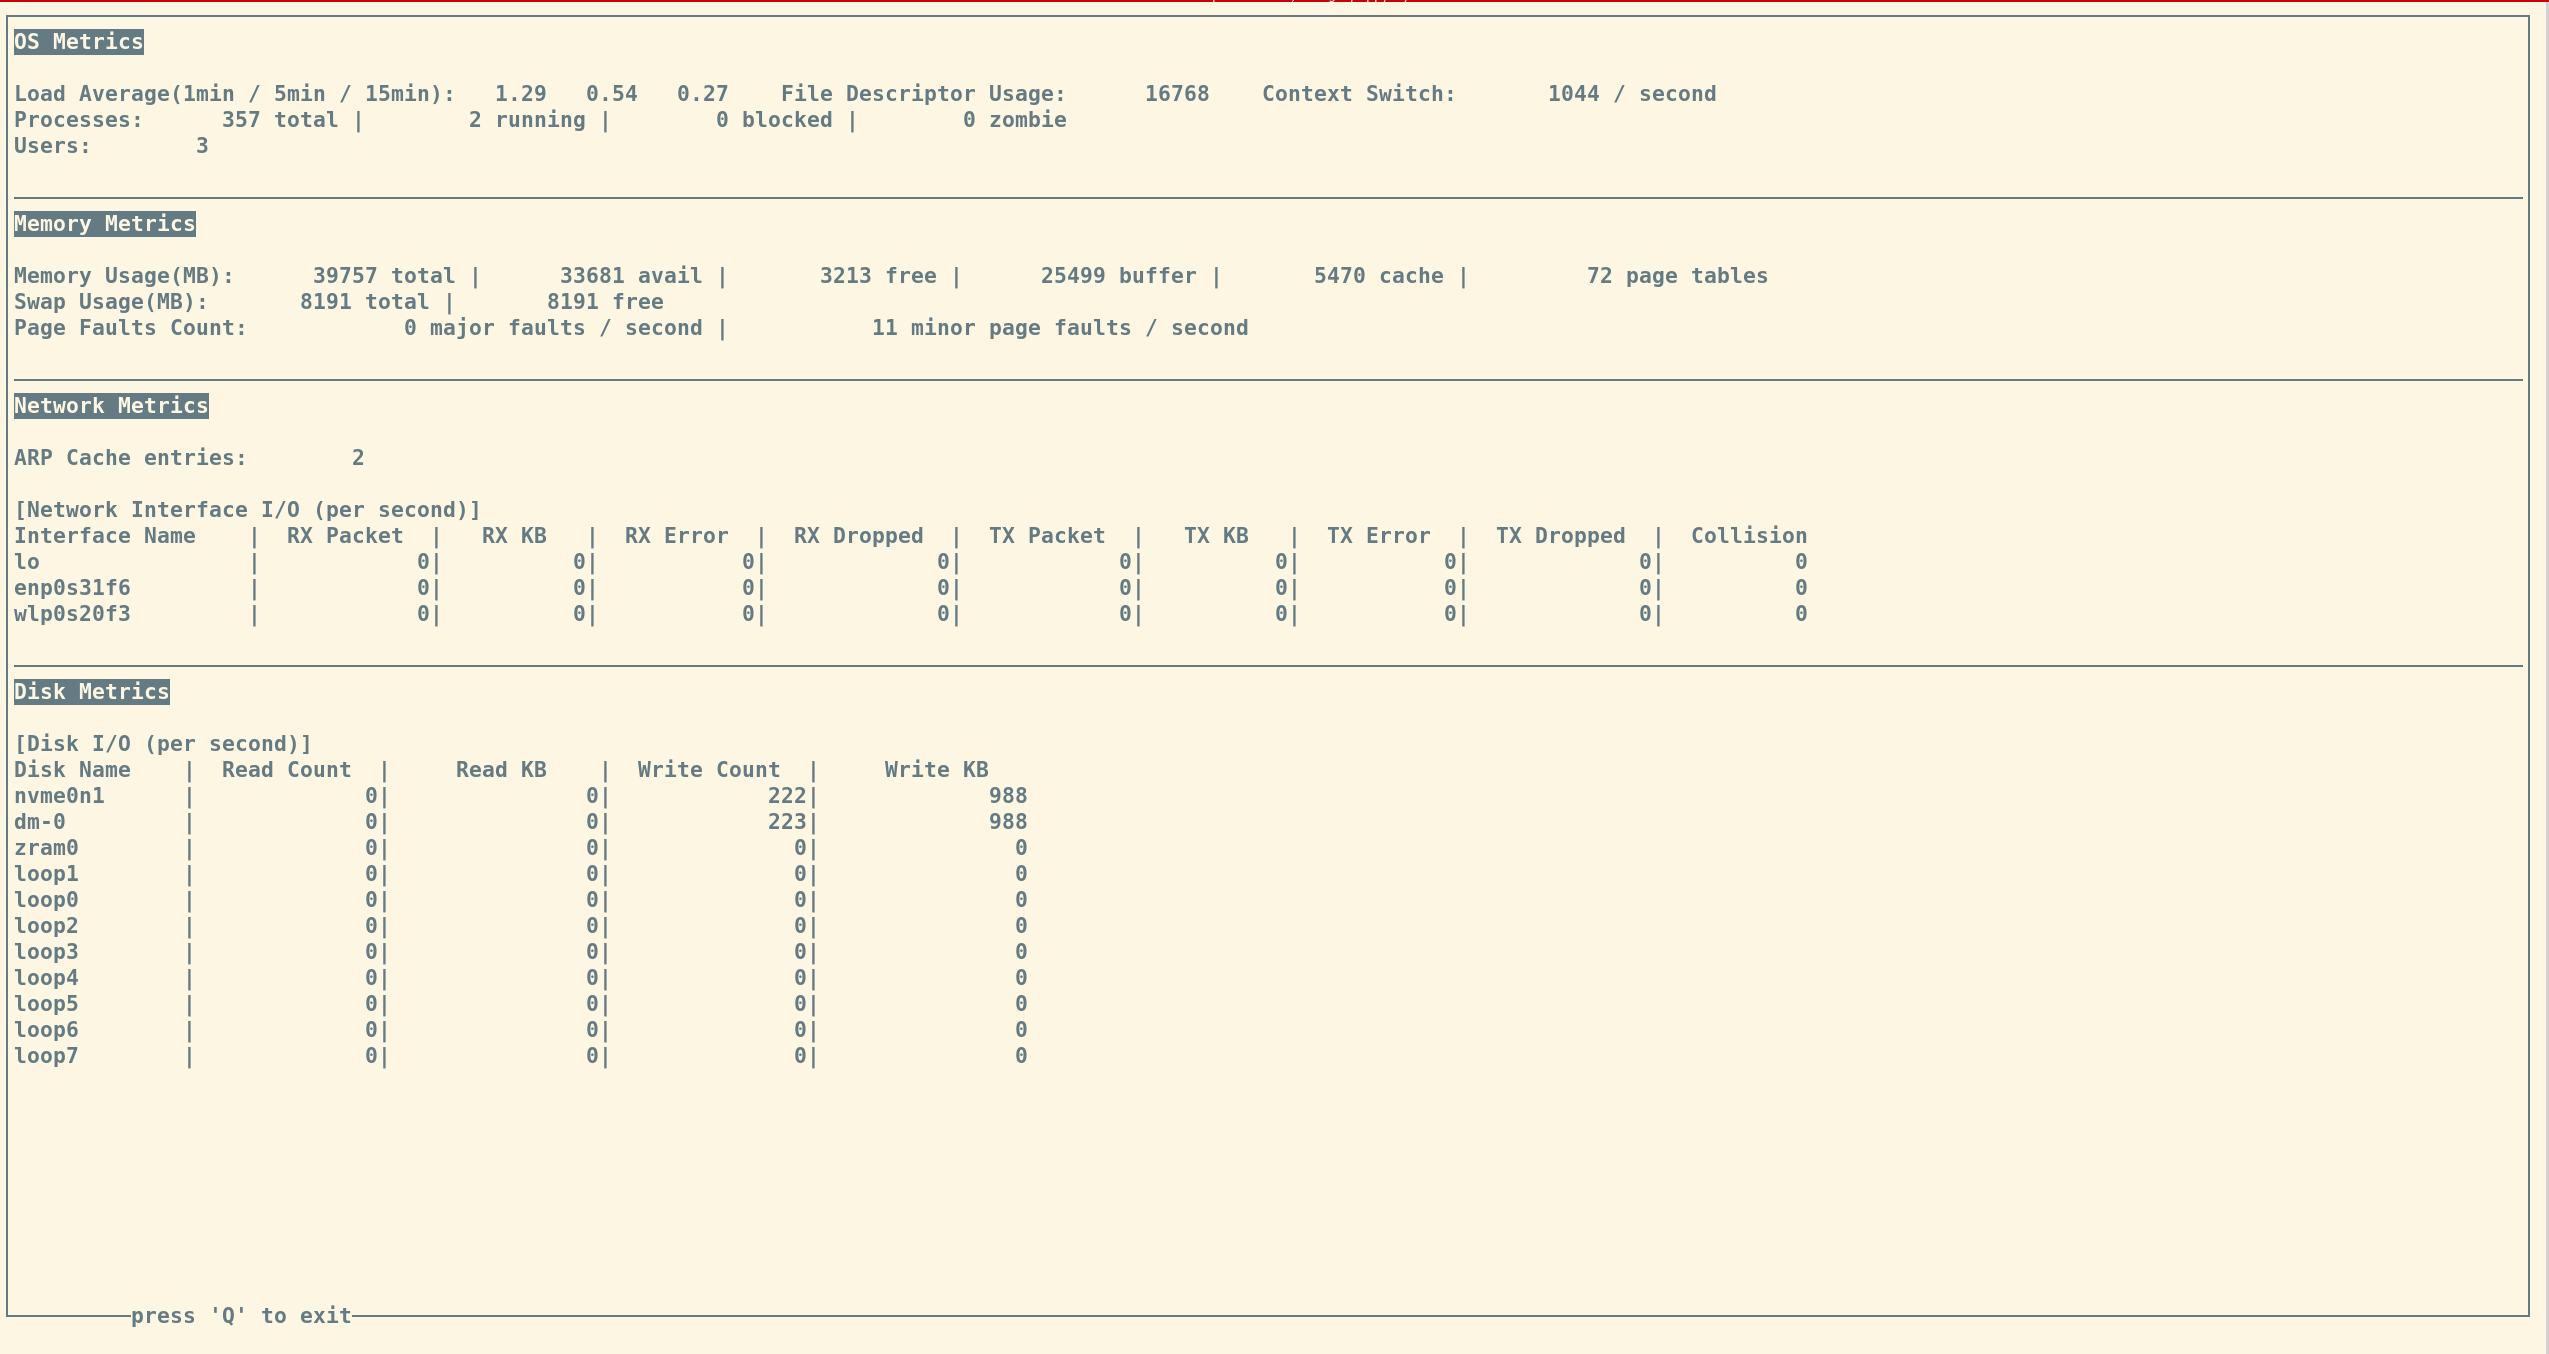
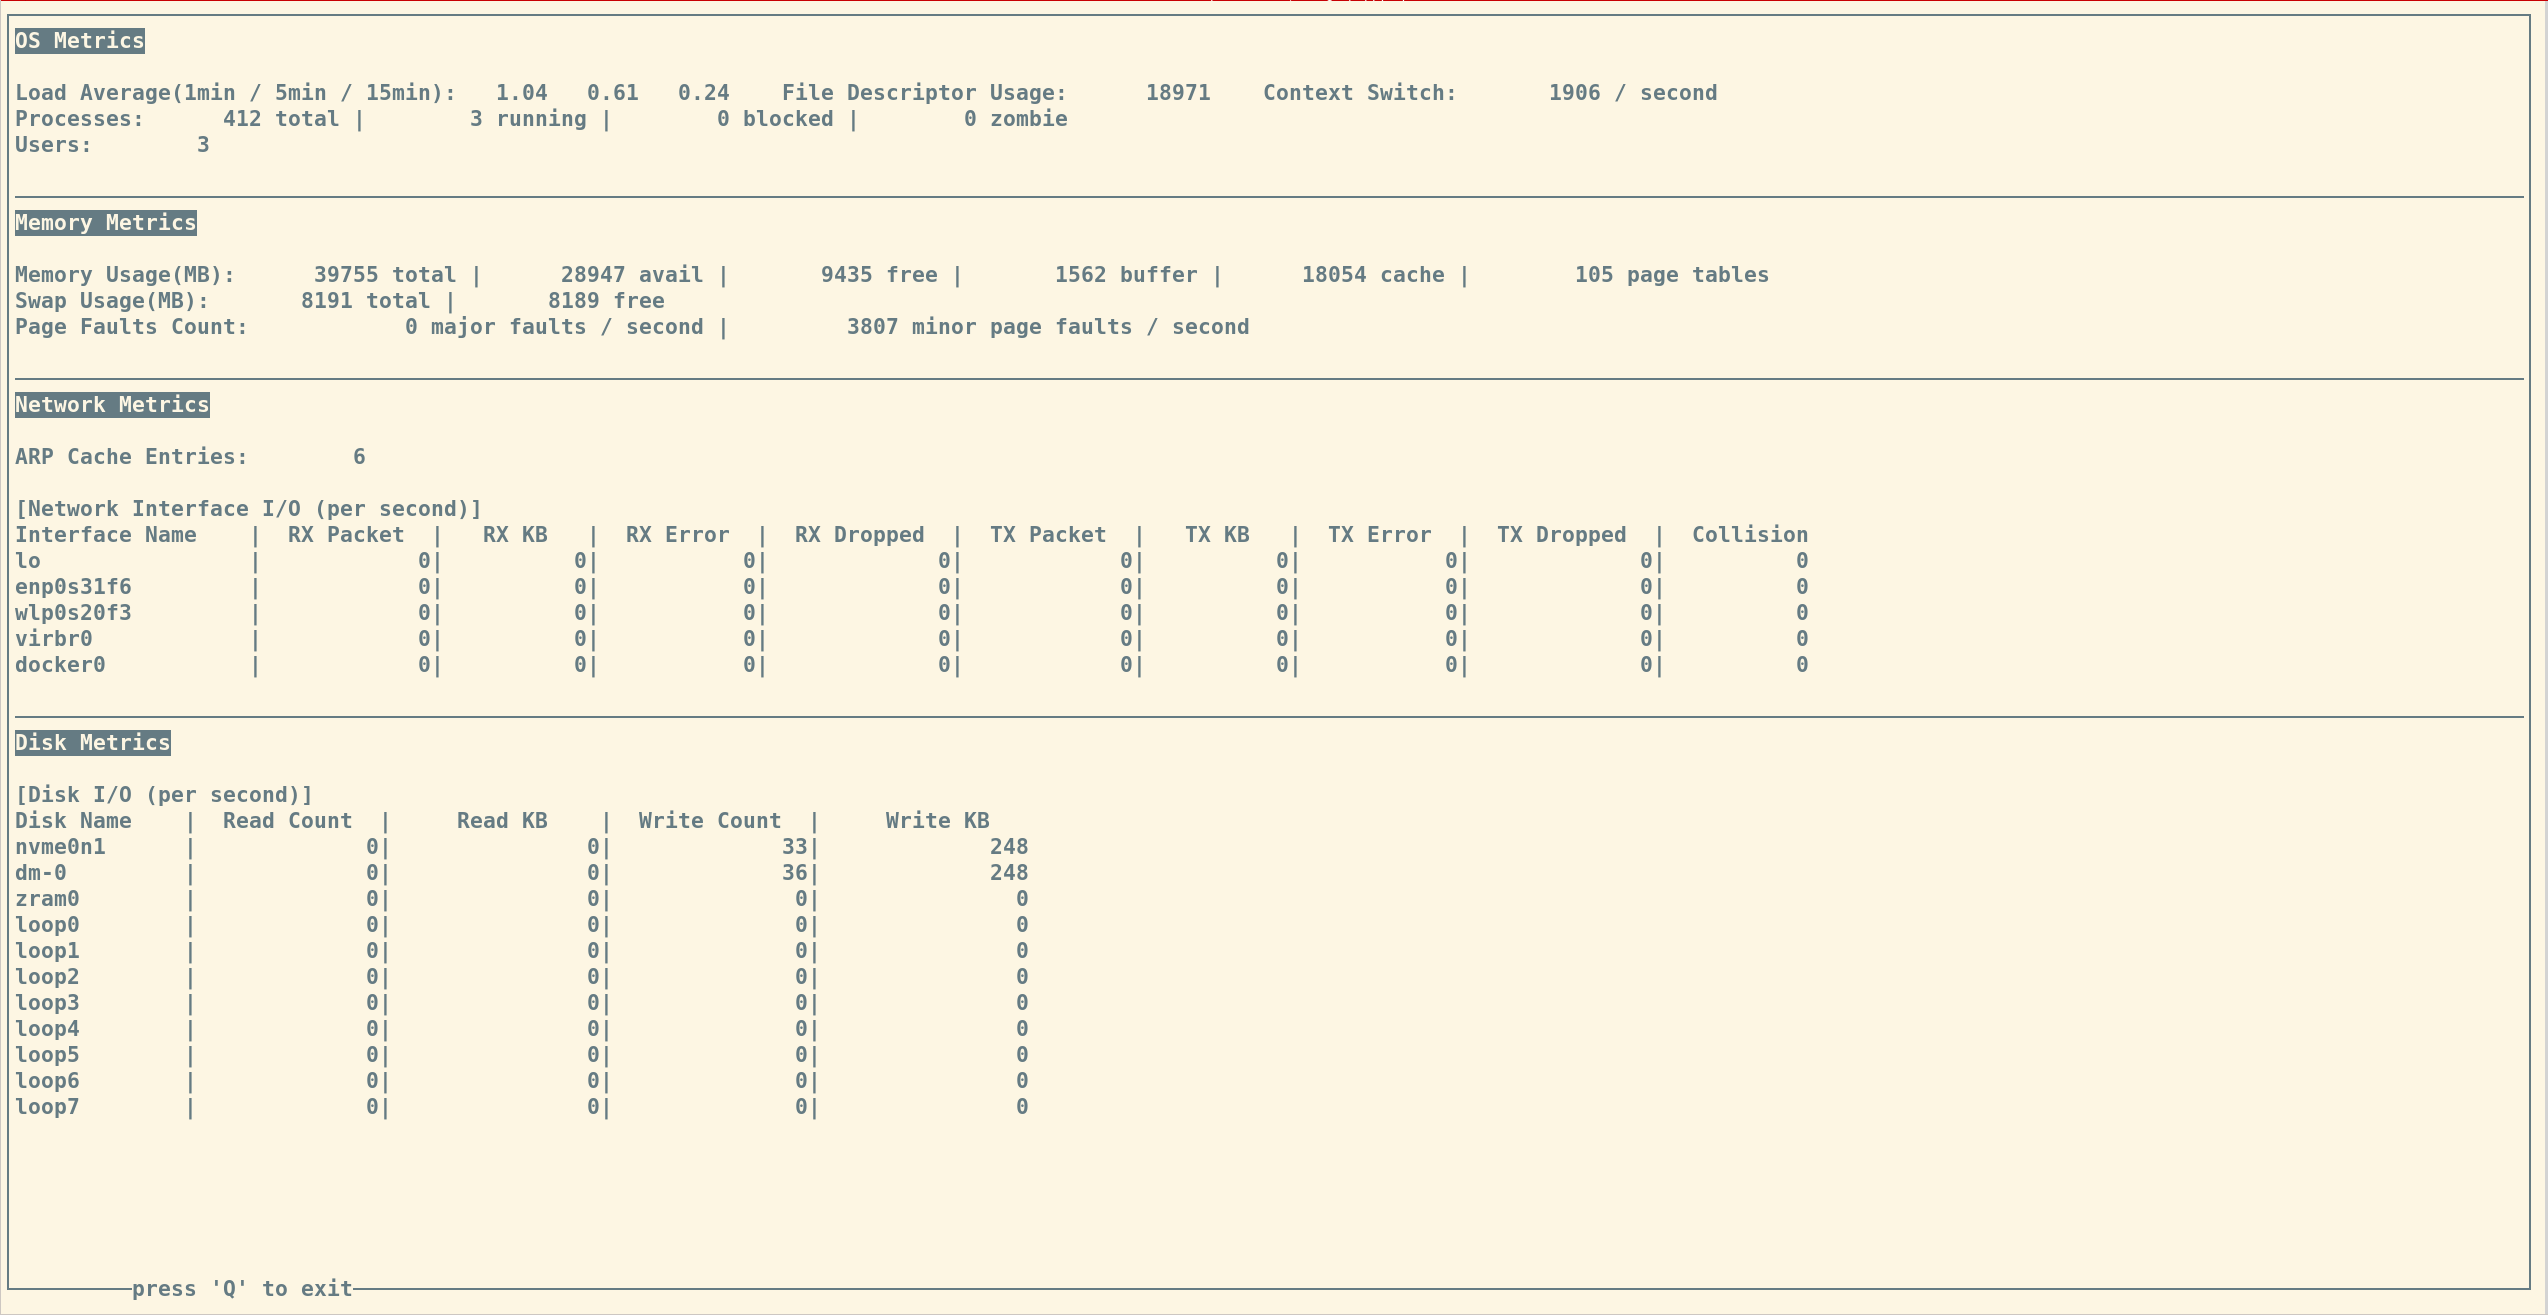
arp metric typo fix

diff --git a/ncurses_utils.c b/ncurses_utils.c
@@ -14,7 +14,7 @@ void construct_window_layout(WINDOW *input_window, int interface_count) {
     char *page_faults_layout = "Page Faults Count:              major faults / second |              minor page faults / second";
 
     char *network_metrics_banner = "Network Metrics";
-    char *arp_cache_entries_layout = "ARP Cache entries:         ";
+    char *arp_cache_entries_layout = "ARP Cache Entries:         ";
     char *interface_io_banner_layout = "[Network Interface I/O (per second)]";
     char *interface_layout = "Interface Name    |  RX Packet  |   RX KB   |  RX Error  |  RX Dropped  |  TX Packet  |   TX KB   |  TX Error  |  TX Dropped  |  Collision";
 
